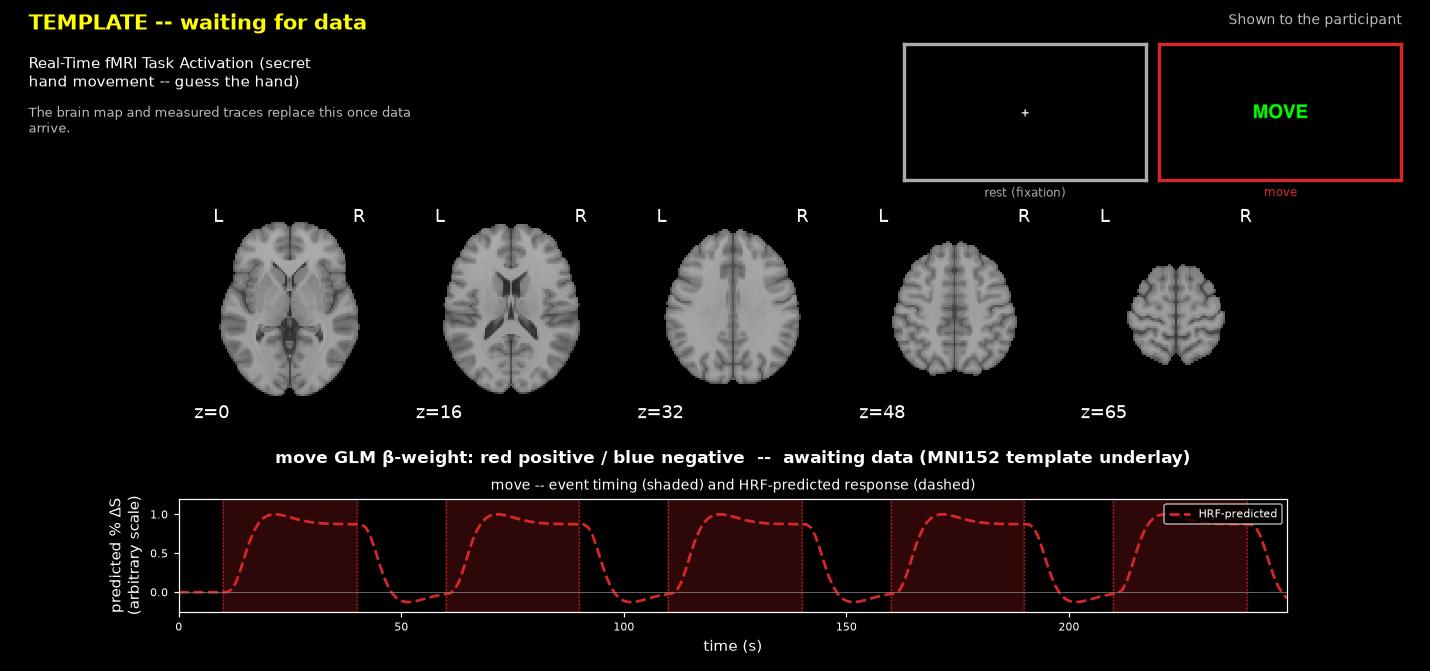
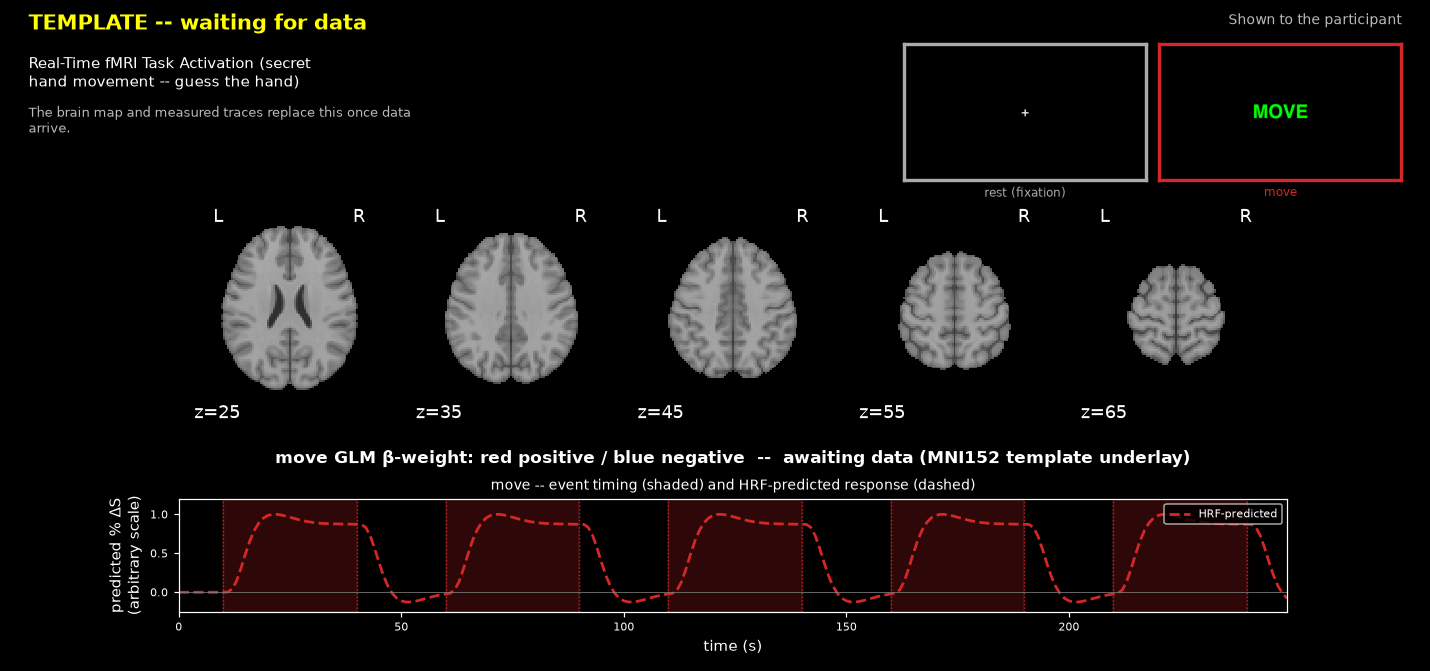
Show motor and motor_guessing slices at z=25..65 (was 0..65)
Both motor tasks now use five axial slices at z = 25, 35, 45, 55, 65 (10 mm
apart, no rounding needed) in run_task.py's Z_CUTS. motor and
motor_guessing are kept identical since they map the same cortex. The
comment above Z_CUTS is updated to match. Rebuilt
templates/current_motor.png and templates/current_motor_guessing.png, whose
brain rows come from these cuts.

Verified run_task.py passes --z-cuts=25,35,45,55,65 for both tasks;
tutorial/test_pipeline.py, testing/test_mock_scanner.py and
tutorial/test_generalize.py pass under Python 3.12.

diff --git a/taskActivation/run_task.py b/taskActivation/run_task.py
@@ -63,14 +63,15 @@ TASKS = {
 # posterior/inferior (low z), same for checkerboard_3cond's 3 positions (and
 # checkerboard_2cond's 2). gambling targets subcortical reward regions
 # (striatum), so its 5 cuts run from -10 to 20 (linear spacing is 7.5 mm,
-# rounded to whole mm: -10, -2.5, 5, 12.5, 20 -> -10, -3, 5, 13, 20).
+# rounded to whole mm: -10, -2.5, 5, 12.5, 20 -> -10, -3, 5, 13, 20). motor and
+# motor_guessing (same cortex, kept identical) run from 25 to 65 (10 mm apart).
 Z_CUTS = {
-    'motor':           '0,16.25,32.5,48.75,65',
+    'motor':           '25,35,45,55,65',
     'checkerboard_1cond': '-36,-22.75,-9.5,3.75,17',
     'checkerboard_3cond': '-36,-22.75,-9.5,3.75,17',
     'checkerboard_2cond': '-36,-22.75,-9.5,3.75,17',
     'gambling':        '-10,-3,5,13,20',
-    'motor_guessing':  '0,16.25,32.5,48.75,65',   # motor cortex, same levels as motor
+    'motor_guessing':  '25,35,45,55,65',   # motor cortex, same levels as motor
 }
 
 
